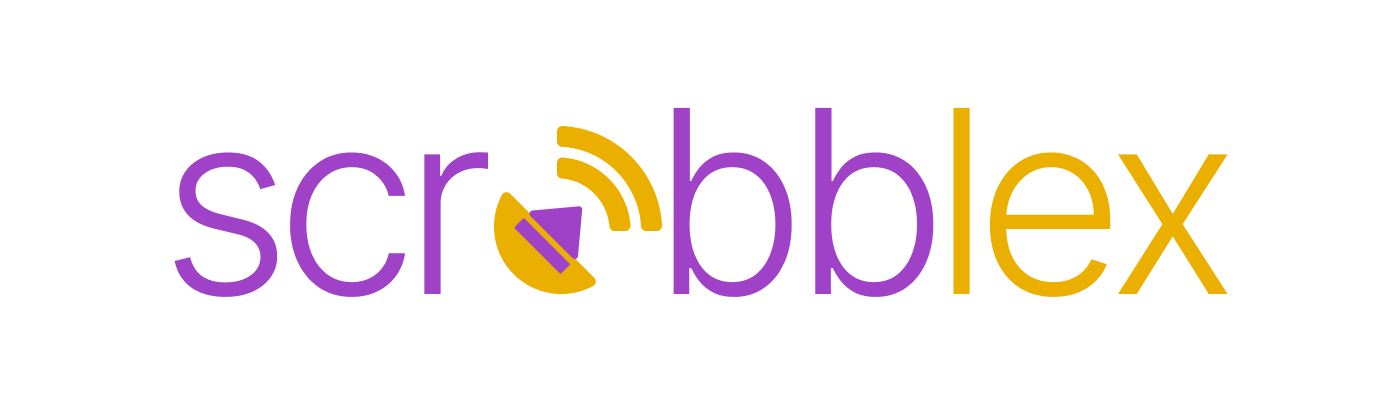
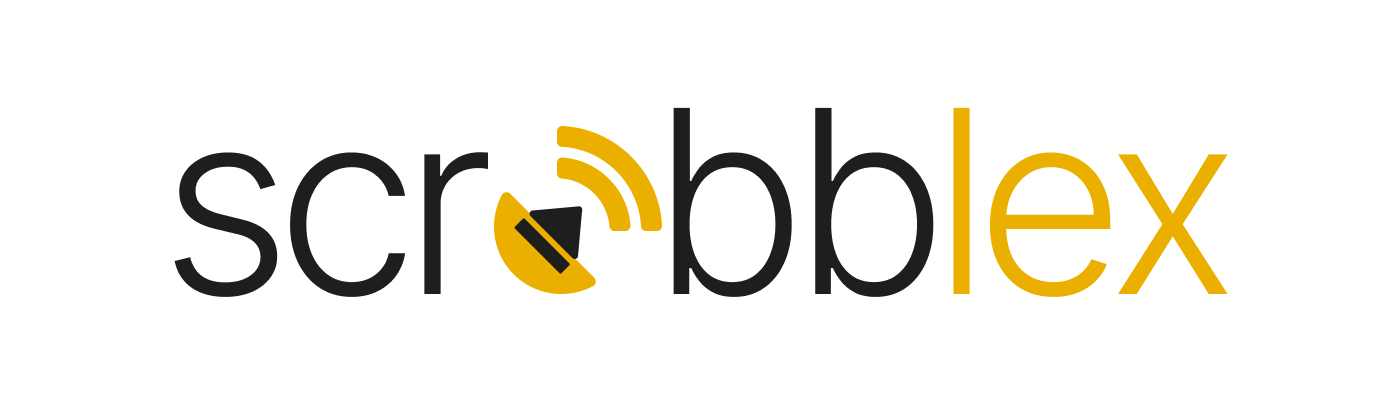
✨ Better brand colors

Changed region(s): [[0.4607, 0.27, 0.6757, 0.75], [0.1229, 0.36, 0.3686, 0.75], [0.3686, 0.51, 0.43, 0.69]]

diff --git a/src/index.js b/src/index.js
@@ -34,7 +34,7 @@ app.use(errorHandler)
 app.use('/favicon.ico', express.static('favicon.ico'));
 app.set('view engine', 'ejs');
 
-const orange = chalk.rgb(249, 115, 22);
+const orange = chalk.rgb(235, 175, 0);
 
 app.post('/plex', upload.single('thumb'), async (req, res) => {
   if (!req.body.payload) {
